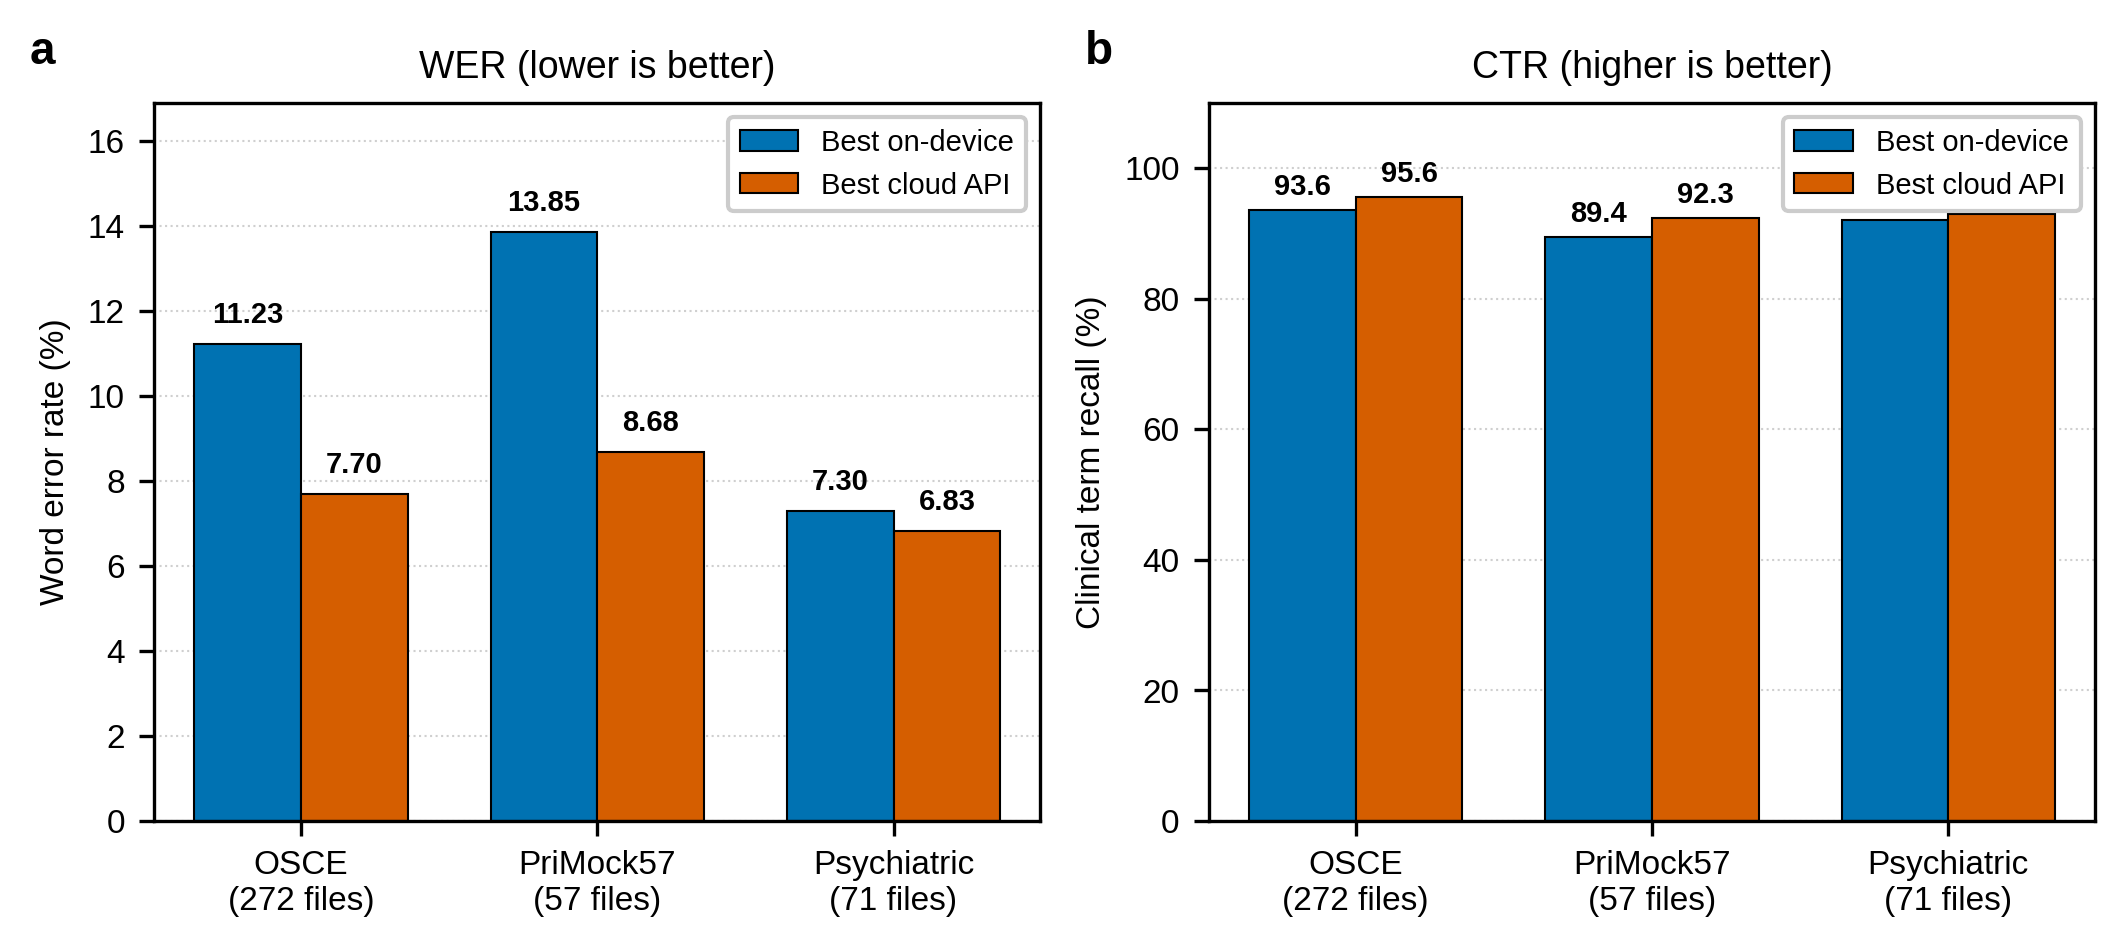
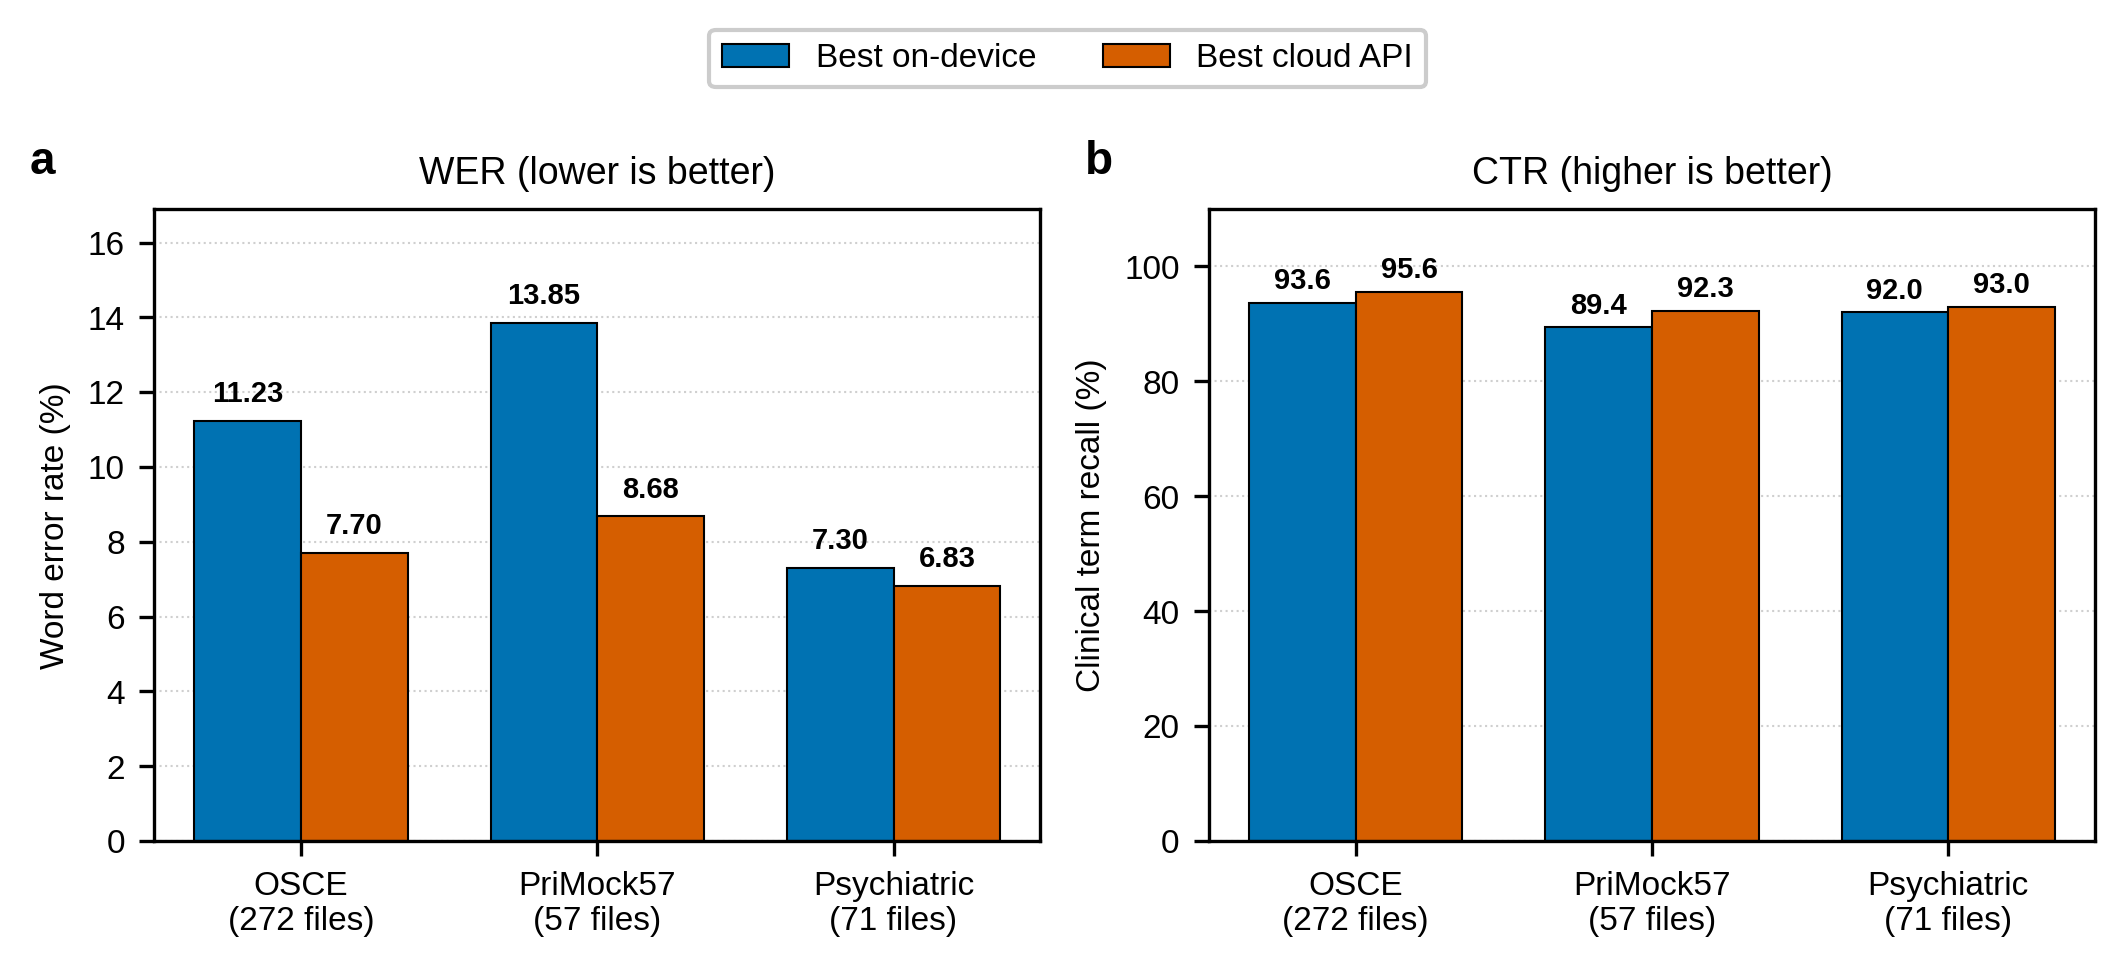
Figure 1: shared legend above panels so psychiatric CTR labels are visible
The per-panel 'upper right' legends collided with panel b's clinical-term-
recall bars, which are all tall (89-96 on a 0-110 axis), hiding the
psychiatric value labels (92.0 / 93.0) behind the legend box. Panel a was
unaffected only because its psychiatric WER bars are short. Replaced both
per-panel legends with one shared legend centered above the two panels;
all six labels in panel b now render. Verified by rendering the PNG.

diff --git a/scripts/make_figure1.py b/scripts/make_figure1.py
@@ -129,7 +129,6 @@ def main() -> None:
     ax_wer.set_ylim(0, max(wer_on + wer_cloud) * 1.22)
     ax_wer.grid(axis='y', linestyle=':', linewidth=0.5, alpha=0.6)
     ax_wer.set_axisbelow(True)
-    ax_wer.legend(loc='upper right', frameon=True, framealpha=1.0)
 
     for bar, val in zip(bars_wer_on, wer_on):
         ax_wer.text(
@@ -162,7 +161,6 @@ def main() -> None:
     ax_ctr.set_ylim(0, 110)
     ax_ctr.grid(axis='y', linestyle=':', linewidth=0.5, alpha=0.6)
     ax_ctr.set_axisbelow(True)
-    ax_ctr.legend(loc='upper right', frameon=True, framealpha=1.0)
 
     for bar, val in zip(bars_ctr_on, ctr_on):
         ax_ctr.text(
@@ -182,7 +180,15 @@ def main() -> None:
             fontsize=11, fontweight='bold', va='bottom', ha='left',
         )
 
-    fig.tight_layout()
+    # Single shared legend above both panels. Per-panel legends collided with
+    # the (tall) clinical-term-recall bars in panel b, hiding the psychiatric
+    # value labels; a figure-level legend keeps both panels uncluttered.
+    handles, labels = ax_wer.get_legend_handles_labels()
+    fig.legend(
+        handles, labels, loc='upper center', ncol=2, frameon=True,
+        framealpha=1.0, fontsize=8, bbox_to_anchor=(0.5, 1.0),
+    )
+    fig.tight_layout(rect=[0, 0, 1, 0.91])
     fig.savefig(OUT_PNG, dpi=300, bbox_inches='tight')
     fig.savefig(OUT_PDF, bbox_inches='tight')
     plt.close(fig)
